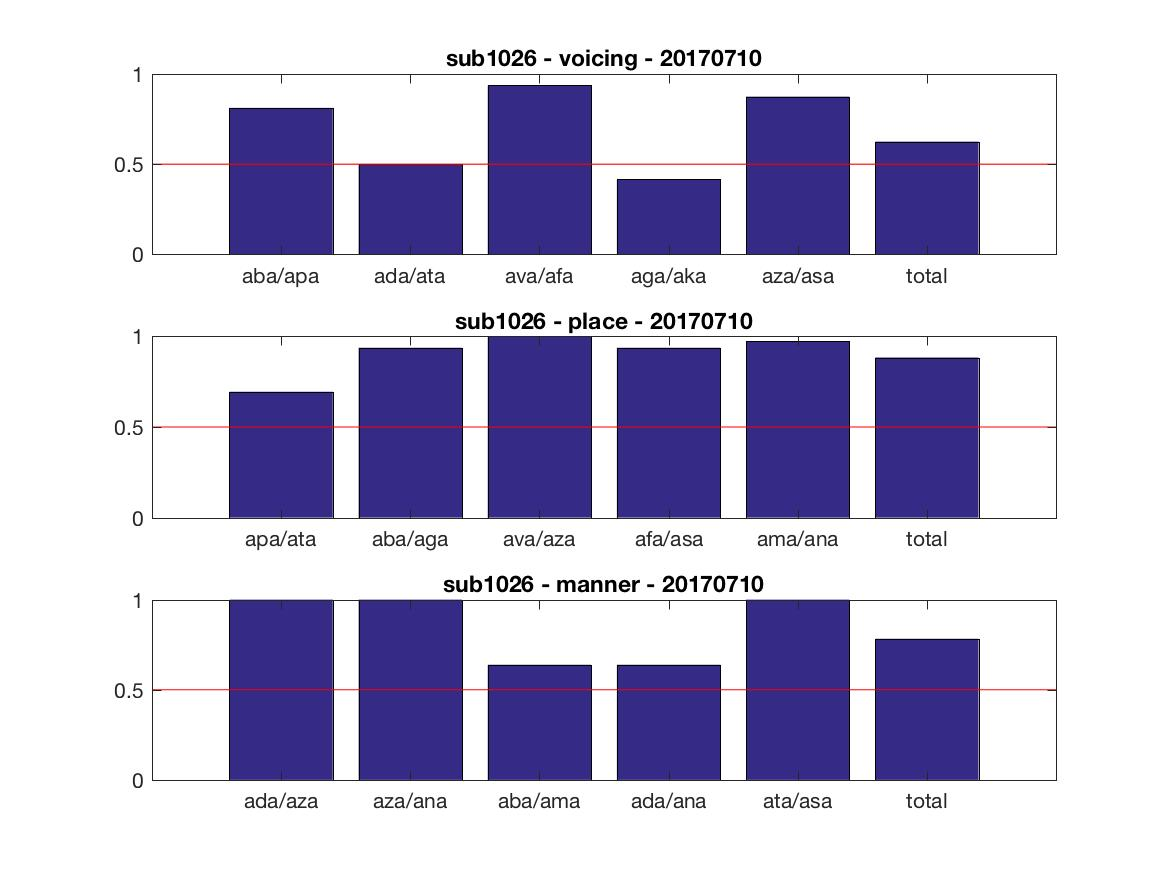
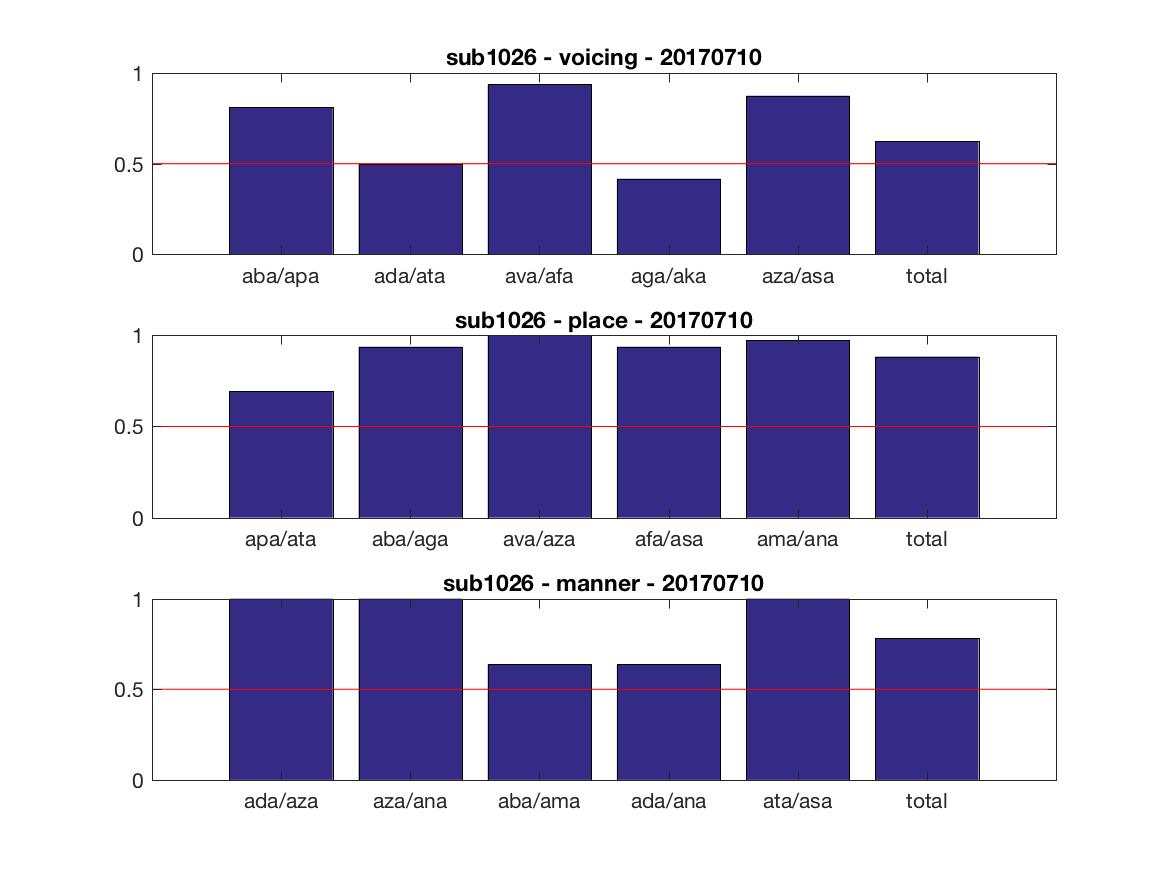
VT training data

diff --git a/10_Aim2_Training/makeTrainingFigure_anna.m b/10_Aim2_Training/makeTrainingFigure_anna.m
@@ -1,5 +1,5 @@
 
-subj = '983';
+subj = '1026';
 sessDate = '20170711';
 sessNum = 'sess13';
 
